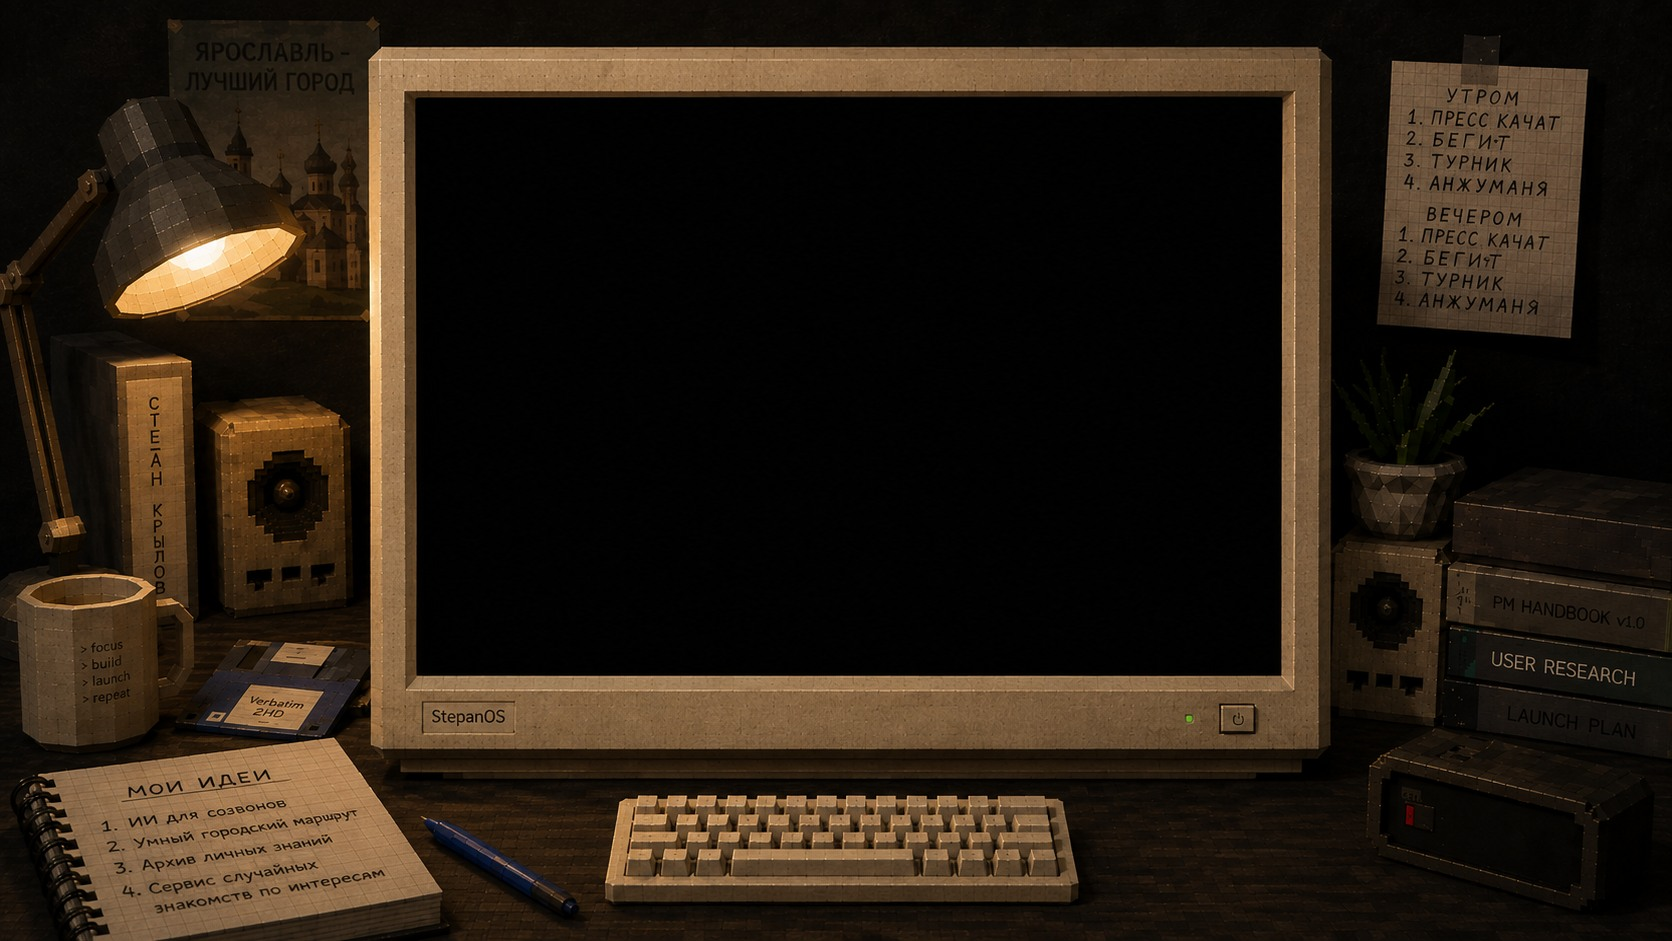
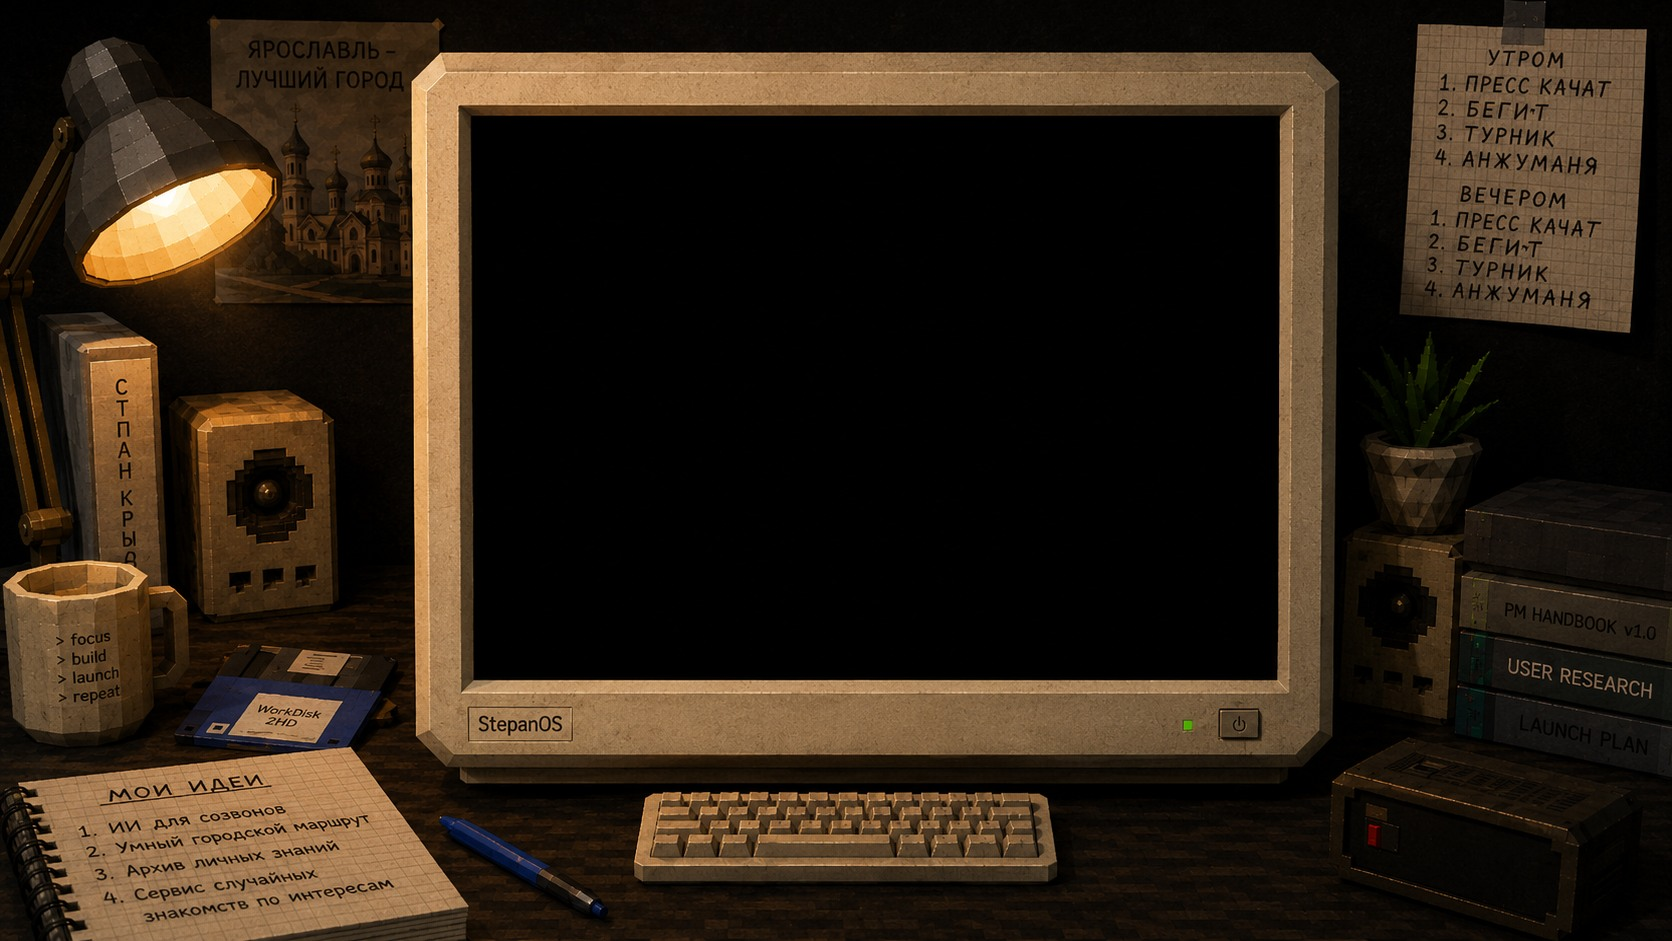
Обновлён десктопный фон

Changed region(s): [[0.0, 0.0, 1.0, 1.0]]

diff --git a/style.css b/style.css
@@ -224,7 +224,7 @@ body { background: #0a0a0a; }   /* тёмные поля снаружи окна
 }
 #desk-bg {
   position: absolute; inset: 0;
-  background-image: url('bg.jpg?v=35');
+  background-image: url('bg.jpg?v=37');
   background-size: 100% 100%;       /* stage сам имеет аспект 1672/941 → без деформации */
   background-repeat: no-repeat;
   z-index: 1;
@@ -242,7 +242,7 @@ body { background: #0a0a0a; }   /* тёмные поля снаружи окна
 @keyframes flicker { 0%,100% { opacity: 1; } 50% { opacity: .92; } }
 
 /* ═══════════════ MONITOR WINDOW (overlay on CRT screen) ═══════════════ */
-/* Границы чёрного CRT-экрана на десктопном фоне: x=415..1281, y=96..675. */
+/* Границы чёрного CRT-экрана на десктопном фоне: x=472..1279, y=115..680. */
 /* Monitor window — «утоплен» в CRT-стекло.
    Окно ~500×400. Внутри .mw-body имеет свой белый/цветной фон,
    поэтому inset-shadow у #monitor-win перекрывается контентом.
@@ -250,10 +250,10 @@ body { background: #0a0a0a; }   /* тёмные поля снаружи окна
    (z-index выше всего, pointer-events: none — не мешает кликам). */
 #monitor-win {
   position: absolute;
-  left:  24.9%;
-  top:   10.4%;
-  width: 51.6%;
-  height: 61.1%;
+  left:  28.3%;
+  top:   12.4%;
+  width: 48.05%;
+  height: 59.7%;
   z-index: 200;
   background: #ece9d8;
   border: 1px solid #000;

diff --git a/index.html b/index.html
@@ -24,10 +24,10 @@
 <!-- Параллельная загрузка критичных ассетов — убирает задержку старта звука и фона -->
 <link rel="preload" as="audio" href="bg.mp3?v=30" type="audio/mpeg">
 <!-- URL фонов должны совпадать с url() в CSS — иначе preload не засчитывается и картинка качается дважды -->
-<link rel="preload" as="image" href="bg.jpg?v=35">
+<link rel="preload" as="image" href="bg.jpg?v=37">
 <link rel="preload" as="image" href="bg-mobile.jpg?v=35">
 <link rel="preload" as="video" href="boot-loader.mp4?v=30" type="video/mp4">
-<link rel="stylesheet" href="style.css?v=36">
+<link rel="stylesheet" href="style.css?v=37">
 </head>
 <body>
 
